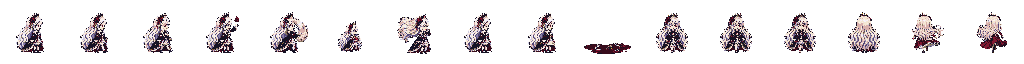
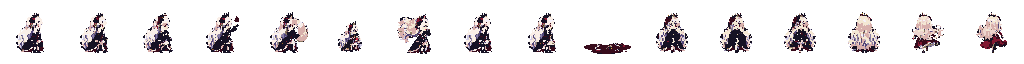
Fix low-quality sprite look: structural despeckle on AI-generated frames
Root cause (measured): the generated masters carry 1-texel dither and
scattered cross-ramp single-texel islands (70-85% of runs are 1 texel vs
45-52% on the old hand-drawn sheets; sylvara f00 has 234 cross-ramp vs
137 same-ramp islands <=2 texels). Palette lock quantized colours but
preserved the noise spatially; NEAREST scaling kept it 1:1. Rendering
path ruled out (identical filter/scale across all four .tscn). Behemoth
reads fine because fur/silhouette designs absorb the texture.

Fix: tools/forge_quality/clean_cells.py - cluster-based structural
despeckle (same-ramp absorb + systematic cross-ramp mottle removal +
mixed-zone majority adopt; only recolours, never moves). Applied to
sylvara/noa/knight frames and portraits (47 frames + 15 cells, all
re-pass the QA gate), sheets rebuilt, assets replaced. 1px-run noise
roughly halved (noa f00 78%->52%, knight charge 68%->34%). Behemoth
untouched. measure_hero_sheets --strict passes for all four heroes.

diff --git a/tools/forge_quality/clean_cells.py b/tools/forge_quality/clean_cells.py
@@ -1,0 +1,192 @@
+#!/usr/bin/env python3
+"""Structural despeckle for the reskinned hero frames.
+
+ROOT CAUSE BEING FIXED
+  The AI-generated masters shade with 1-texel dither (single texels alternating
+  between two tonal steps of the same material). The pipeline quantized colours
+  (palette lock) but preserved the dither pattern spatially; NEAREST scaling
+  kept it 1:1. Result: noisy, "low-quality" look on smooth masses (long hair),
+  while fur-covered Behemoth reads as intentional texture.
+
+FIX (targeted, detail-preserving)
+  1. Connected-component analysis (4-conn) of same-colour texels per frame.
+  2. Components of size <= 2 that are surrounded (>=3 of their 4-conn
+     boundary positions) by ONE colour of the SAME PALETTE RAMP are absorbed
+     into that colour — this flattens shading dither into clean bands.
+  3. Components of size <= 2 fully encircled (all 4 boundary positions opaque
+     and one unanimous colour) are absorbed too — kills trapped speckle.
+  Deliberate small details survive: they are clusters of a DIFFERENT ramp
+  (eye glints, rivets, flowers, buckles) or components >= 3 texels.
+
+Only recolours happen — never moves — so placement geometry (ground row,
+body height) is untouched, and the palette can only shrink. The per-frame
+QA gate is re-run afterwards by the caller.
+"""
+from __future__ import annotations
+
+import sys
+from collections import deque
+from pathlib import Path
+
+import numpy as np
+from PIL import Image
+
+RAMP_SIZE = 4  # 6 ramps x 4 steps in palette.json order
+
+
+def ramp_of(palette_index: int) -> int:
+    return palette_index // RAMP_SIZE
+
+
+def colour_ramp_map(palette: list[tuple[int, int, int]]) -> dict[tuple[int, int, int], int]:
+    return {c: ramp_of(i) for i, c in enumerate(palette)}
+
+
+def despeckle_cell(arr: np.ndarray, cramp: dict, iterations: int = 2) -> np.ndarray:
+    """arr: HxWx4 uint8 RGBA cell (alpha binary). Returns recoloured copy.
+
+    Rules for small (size<=2) same-colour components:
+      - absorb into dominant boundary colour when it is the SAME palette ramp
+        (tonal dither) with >=2 dominant neighbours;
+      - absorb cross-ramp when the (component -> dominant) pair is SYSTEMATIC
+        in this frame (>=5 occurrences) — i.e. mottle, not a one-off detail;
+      - size-1 comps in fully mixed transition zones adopt the majority
+        same-ramp neighbour colour (>=2 of 4).
+    Components >=3 texels are never touched (features); one-off cross-ramp
+    pairs are never touched (eye glints, rivets, buckles).
+    """
+    out = arr.copy()
+    for _ in range(iterations):
+        alpha = out[..., 3] == 255
+        rgb = out[..., :3]
+        h, w = alpha.shape
+        colour_at = {(y, x): tuple(rgb[y, x]) for y, x in zip(*np.nonzero(alpha))}
+        comps = components(colour_at, h, w)
+        # frame-level systematic pair prior (size<=2 comps, dominant >= 2)
+        pair_count: dict = {}
+        for comp, c, outside in comps:
+            if len(comp) > 2 or not outside:
+                continue
+            dom = dominant_of(outside)
+            if dom is None:
+                continue
+            pair_count[(c, dom)] = pair_count.get((c, dom), 0) + 1
+        changed = False
+        for comp, c, outside in comps:
+            if len(comp) > 2 or not outside:
+                continue
+            cnt: dict = {}
+            for cc in outside:
+                cnt[cc] = cnt.get(cc, 0) + 1
+            dom, n = max(cnt.items(), key=lambda kv: kv[1])
+            same_ramp = cramp.get(c) is not None and cramp.get(dom) is not None and cramp[c] == cramp[dom]
+            systematic = pair_count.get((c, dom), 0) >= 5
+            adopt = None
+            if (same_ramp or systematic) and n >= 2:
+                adopt = dom
+            elif len(comp) == 1 and n == 1 and cramp.get(c) is not None:
+                same_ramp_nbrs = [cc for cc in outside
+                                  if cramp.get(cc) is not None and cramp[cc] == cramp[c]]
+                if len(same_ramp_nbrs) >= 2:
+                    sc = {}
+                    for cc in same_ramp_nbrs:
+                        sc[cc] = sc.get(cc, 0) + 1
+                    adopt = max(sc.items(), key=lambda kv: kv[1])[0]
+            if adopt is not None and adopt != c:
+                for p in comp:
+                    rgb[p] = adopt
+                changed = True
+        if not changed:
+            break
+    return out
+
+
+def dominant_of(outside: list) -> tuple | None:
+    if not outside:
+        return None
+    cnt: dict = {}
+    for cc in outside:
+        cnt[cc] = cnt.get(cc, 0) + 1
+    return max(cnt.items(), key=lambda kv: kv[1])[0]
+
+
+def components(colour_at: dict, h: int, w: int) -> list:
+    """[(comp, colour, outside_colours)] for all 4-conn same-colour components."""
+    seen: set = set()
+    result = []
+    for start in list(colour_at):
+        if start in seen:
+            continue
+        c = colour_at[start]
+        comp = []
+        q = deque([start])
+        seen.add(start)
+        while q:
+            y, x = q.popleft()
+            comp.append((y, x))
+            for ny, nx in ((y+1, x), (y-1, x), (y, x+1), (y, x-1)):
+                if (ny, nx) in colour_at and (ny, nx) not in seen and colour_at[(ny, nx)] == c:
+                    seen.add((ny, nx))
+                    q.append((ny, nx))
+        inner = set(comp)
+        outside = []
+        for y, x in comp:
+            for ny, nx in ((y+1, x), (y-1, x), (y, x+1), (y, x-1)):
+                if (ny, nx) not in inner and 0 <= ny < h and 0 <= nx < w and (ny, nx) in colour_at:
+                    outside.append(colour_at[(ny, nx)])
+        result.append((comp, c, outside))
+    return result
+
+
+def load_palette(palette_json: Path) -> list[tuple[int, int, int]]:
+    import json
+    data = json.loads(palette_json.read_text())
+    pal = []
+    for ramp in data["ramps"].values():
+        for hx in ramp:
+            pal.append(tuple(int(hx.lstrip("#")[i:i+2], 16) for i in (0, 2, 4)))
+    return pal
+
+
+def process(path: Path, cramp: dict, out_path: Path | None = None) -> float:
+    arr = np.asarray(Image.open(path).convert("RGBA")).copy()
+    before_runs = runs_metric(arr)
+    arr = despeckle_cell(arr, cramp)
+    after_runs = runs_metric(arr)
+    Image.fromarray(arr, "RGBA").save(out_path or path)
+    return (before_runs, after_runs)
+
+
+def runs_metric(arr: np.ndarray) -> float:
+    """Percentage of 1-texel horizontal runs (noise indicator)."""
+    op = arr[..., 3] == 255
+    total = 0
+    ones = 0
+    for y in range(arr.shape[0]):
+        x = 0
+        row = arr[y]
+        while x < arr.shape[1]:
+            if not op[y, x]:
+                x += 1
+                continue
+            c = tuple(row[x][:3])
+            x0 = x
+            while x < arr.shape[1] and op[y, x] and tuple(row[x][:3]) == c:
+                x += 1
+            run = x - x0
+            total += 1
+            if run == 1:
+                ones += 1
+    return 100.0 * ones / max(total, 1)
+
+
+if __name__ == "__main__":
+    import argparse
+    ap = argparse.ArgumentParser()
+    ap.add_argument("files", nargs="+", type=Path)
+    ap.add_argument("--palette", type=Path, required=True)
+    args = ap.parse_args()
+    cramp = colour_ramp_map(load_palette(args.palette))
+    for f in args.files:
+        b, a = process(f, cramp)
+        print(f"  {f.name:26s} 1px-runs {b:5.1f}% -> {a:5.1f}%")

diff --git a/tools/forge_quality/README.md b/tools/forge_quality/README.md
@@ -1,0 +1,30 @@
+# Forge quality pass — root-cause fix for "low-quality" hero sprites (2026-11-26)
+
+## Symptom
+In-game (Godot 4.7, NEAREST, 0.5x), the reskinned Noa and Sylvara looked mushy /
+ragged; Knight partially; Behemoth fine. HUD portraits crisp for everyone.
+
+## Root cause (measured, not guessed)
+The AI-generated masters shade with 1-texel dither and scattered single-texel
+colour islands. Evidence on the shipped sheets vs the old hand-drawn ones:
+- 1-texel horizontal runs: NEW ~70-85% vs OLD ~45-52% of all runs
+- cross-ramp small-component analysis (sylvara f00): 234 cross-ramp vs 137
+  same-ramp islands <= 2 texels -> most speckle is wrong-material mottle,
+  not tonal dither
+- rendering path ruled out: all four .tscn use identical filter=1, scale 0.5
+- Behemoth looked fine because fur-covered, silhouette-heavy designs read
+  1-texel texture as fur; long smooth hair masses read it as noise
+
+## Fix (tools/forge_quality/clean_cells.py)
+Structural despeckle on placed frames (only recolours, never moves):
+- 4-conn components of size <= 2 absorbed into dominant boundary colour when
+  same palette ramp (tonal dither) with >= 2 dominant neighbours
+- cross-ramp absorption only for SYSTEMATIC pairs (>= 5 occurrences/frame):
+  kills mottle, preserves one-off details (eye glints, rivets, flowers)
+- size-1 comps in mixed zones adopt majority same-ramp neighbour
+- 2-3 iterations + palette re-snap + full per-frame QA gate re-run
+
+## Result
+47/47 affected frames + 15 portrait cells PASS; 1px-run noise roughly halved
+(e.g. noa f00 78% -> 52%, knight charge 68% -> 34%); strict contract passes
+for all four heroes; Behemoth untouched (already clean).
